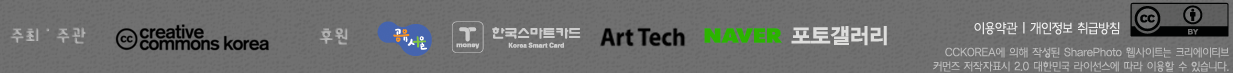
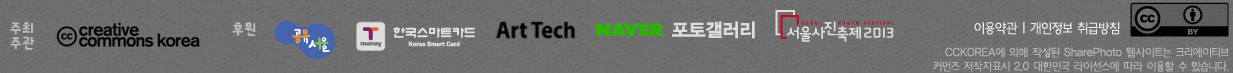
수정사항 적용

Changed region(s): [[0.0, 0.137, 0.7397, 0.8219], [0.3698, 0.274, 0.4006, 0.3014]]

diff --git a/public/css/common.css b/public/css/common.css
@@ -62,14 +62,15 @@ hr { width:100%; border:none; margin:0; padding:0; height:0; border-top:2px soli
 #footer p {padding-top:32px; float:left; position:relative;}
 #footer span, #footer a, #footer .links  {background: url(../images/icons_footer.png) no-repeat; display:block; height:38px; text-indent:-10000px; float:left;}
 #footer .host {padding-left:30px;}
-#footer .host span { width:76px;background-position:-10px -19px;}
-#footer .host a {width:153px; margin-left:30px;background-position:-116px -19px;}
+#footer .host span { width:24px;background-position:-10px -19px;}
+#footer .host a {width:153px; margin-left:21px;background-position:-55px -19px;}
 
-#footer .sponsor span {margin-left:50px;width:28px;background-position:-319px -19px;}
-#footer .sponsor a.s1 {margin-left:29px;width:56px;background-position:-376px -19px;}
-#footer .sponsor a.s2 {margin-left:20px;width:128px;background-position:-452px -19px;}
-#footer .sponsor a.s3 {margin-left:20px;width:85px;background-position:-600px -19px;}
-#footer .sponsor a.s4 {margin-left:19px;width:214px;background-position:-704px -19px;}
+#footer .sponsor span {margin-left:24px;width:24px;background-position:-232px -19px;}
+#footer .sponsor a.s1 {margin-left:18px;width:62px;background-position:-274px -19px;}
+#footer .sponsor a.s2 {margin-left:20px;width:119px;background-position:-356px -19px;}
+#footer .sponsor a.s3 {margin-left:20px;width:85px;background-position:-495px -19px;}
+#footer .sponsor a.s4 {margin-left:16px;width:160px;background-position:-596px -19px;}
+#footer .sponsor a.s5 {margin-left:16px;width:130px;background-position:-772px -10px;position:relative;top:-9px;}
 
 #footer .links {display:block; height:17px; padding:0; overflow:hidden; background-position:-974px -19px; position:absolute; right:140px; top:32px;}
 #footer .links a.agreement {width:44px;background-position:-974px -19px;}

diff --git a/public/markup/main.html b/public/markup/main.html
@@ -227,6 +227,7 @@
 				<a class="s2" href="">한국 스마트 카드</a>
 				<a class="s3" href="">ART TECH</a>
 				<a class="s4" href="">Naver 포토갤러리</a>
+				<a class="s5" href="">서울사진축제 2013</a>
 			</p>
 			<p class="links">
 				<a class="agreement" href="">이용약관</a>

diff --git a/public/_include/footer.php b/public/_include/footer.php
@@ -9,6 +9,7 @@
 				<a class="s2" href="http://www.koreasmartcard.co.kr" target="_blink">한국 스마트 카드</a>
 				<a class="s3" href="http://www.arttech.or.kr" target="_blink">ART TECH</a>
 				<a class="s4" href="http://photo.naver.com" target="_blink">Naver 포토갤러리</a>
+				<a class="s5" href="http://www.seoulphotofestival.com/2013/">서울사진축제 2013</a>
 			</p>
 			<p class="links">
 				<a class="agreement" href="/other/agreement.php">이용약관</a>
